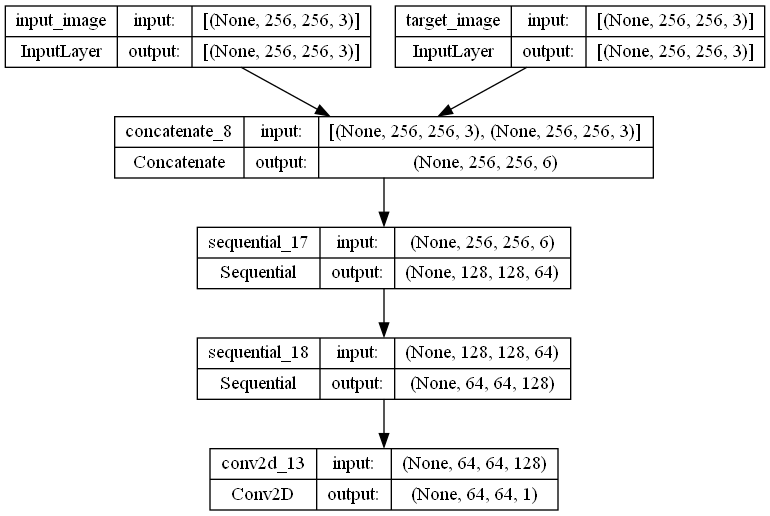
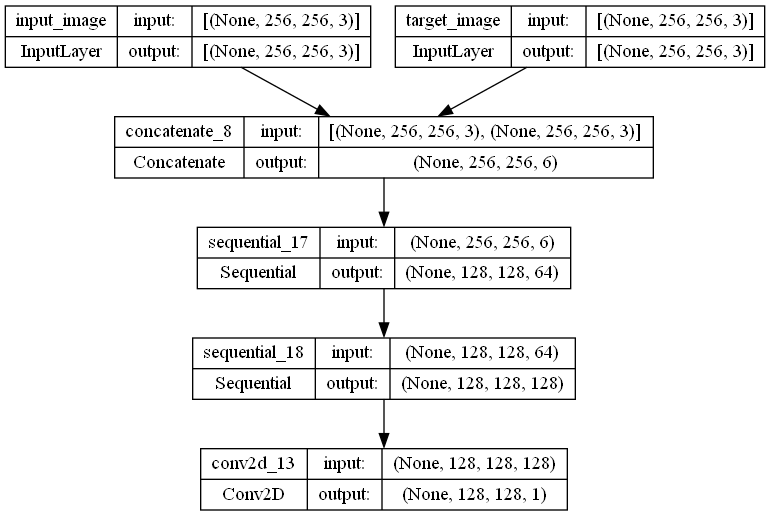
fix issue with receptive field size and update docs

Changed region(s): [[0.2494, 0.8682, 0.7481, 0.9922], [0.2494, 0.6512, 0.7481, 0.7752]]

diff --git a/src/pix2pix.py b/src/pix2pix.py
@@ -234,16 +234,23 @@ def PatchGAN(
     if patch_size == 1:
         kernel_size = (1, 1)
 
-    out = downsampling_block(64, kernel_size=kernel_size, use_batchnorm=False)(out)
-    out = downsampling_block(128, kernel_size=kernel_size)(out)
+    out = downsampling_block(
+        64, kernel_size=kernel_size, use_batchnorm=False, strides=(1, 1) if patch_size == 1 else (2, 2)
+    )(out)
 
-    if patch_size not in (1, 16):
+    out = downsampling_block(
+        128, kernel_size=kernel_size, strides=(2, 2) if patch_size in (70, 286) else (1,1)
+    )(out)
+
+    if patch_size in (70, 286):
         out = downsampling_block(256, kernel_size=kernel_size)(out)
-        out = downsampling_block(512, kernel_size=kernel_size)(out)
 
     if patch_size == 286:
         out = downsampling_block(512, kernel_size=kernel_size)(out)
         out = downsampling_block(512, kernel_size=kernel_size)(out)
+
+    if patch_size in (70, 286):
+        out = downsampling_block(512, kernel_size=kernel_size, strides=(1, 1))(out)
 
     out = Conv2D(
         1,

diff --git a/README.md b/README.md
@@ -139,14 +139,20 @@ Next, we trained the model for 200 epochs with batch size set to 1. We skipped t
 
 ![Generated image from epoch 79](./figures/patch_size_16_whole_map.png)
 
-The following image is the generated image after the first epoch where we can clearly see the size of the receptive field of the discriminator.
+The following image is the generated image after the first epoch where we can clearly see the impact of the size of the receptive field of the discriminator.
 
 ![Generated image from epoch 1](./figures/patch_size_16_whole_map_e1.png)
 
 In the next training, we tried the largest receptive field size for the PatchGAN model which is 286. We trained the model for 200 epochs with batch size set to 1. We used the `extract_patches` function again as the generator was able to generate images with more detail from zoomed in maps - resizing the original images instead of extracting multiple smaller patches from them led to a loss of detail. After 12 hours the training got interrupted as Kaggle only allows 12 hour sessions. We continued from the last checkpoint on epoch 140. Due to an unknown issue Kaggle crashed and the training got interrupted after 29 more epochs so we had to continue from the last checkpoint on epoch 160.
+
+After these trainings we discovered an issue with our implementation of the PatchGAN model. We were following the pix2pix paper which mentioned that every convolution is strided with a stride of 2. However, the authors' implementation in the Torch framework for the Lua language used a stride of 1 for the second to last convolution layer. This means that the receptive field size of our discriminator was 22 instead of 16, 94 instead of 70 or 382 instead of 286.
+
+We fixed the issue and tried training the model again with the same hyperparameters as in the paper. We didn't use our `extract_patches` function. Instead, we only resized the images to 256x256 as in the paper. We trained the model for 200 epochs with batch size set to 1.
 
 ## Evaluation
 
 The model was evaluated on the validation set of 1098 images. Apart from visually inspecting generated images, we also used a custom function to calculate the Structural Similarity Index (SSIM), Peak Signal-to-Noise ratio (PSNR), and the L1 distance (Mean Absolute Error) between the generated images and the ground truth images. The function is defined in the [`pix2pix.py`](./src/pix2pix.py) script in the `evaluate` function.
 
 The function aggregates the SSIM, PSNR, and L1 distance between generated images and ground truth images and returns the mean, minimum, maximum, and standard deviation of each metric in a dictionary. The metrics are also printed in a Rich table.
+
+Upon visual inspection we found that the model trained with the batch size set to 10 produced images there were washed out and contained crooked structures. This is caused by the fact that batch normalization aggregated statistics over 10 images. Using a batch size of 1 is an approach to batch normalization called instance normalization which yields better results.
